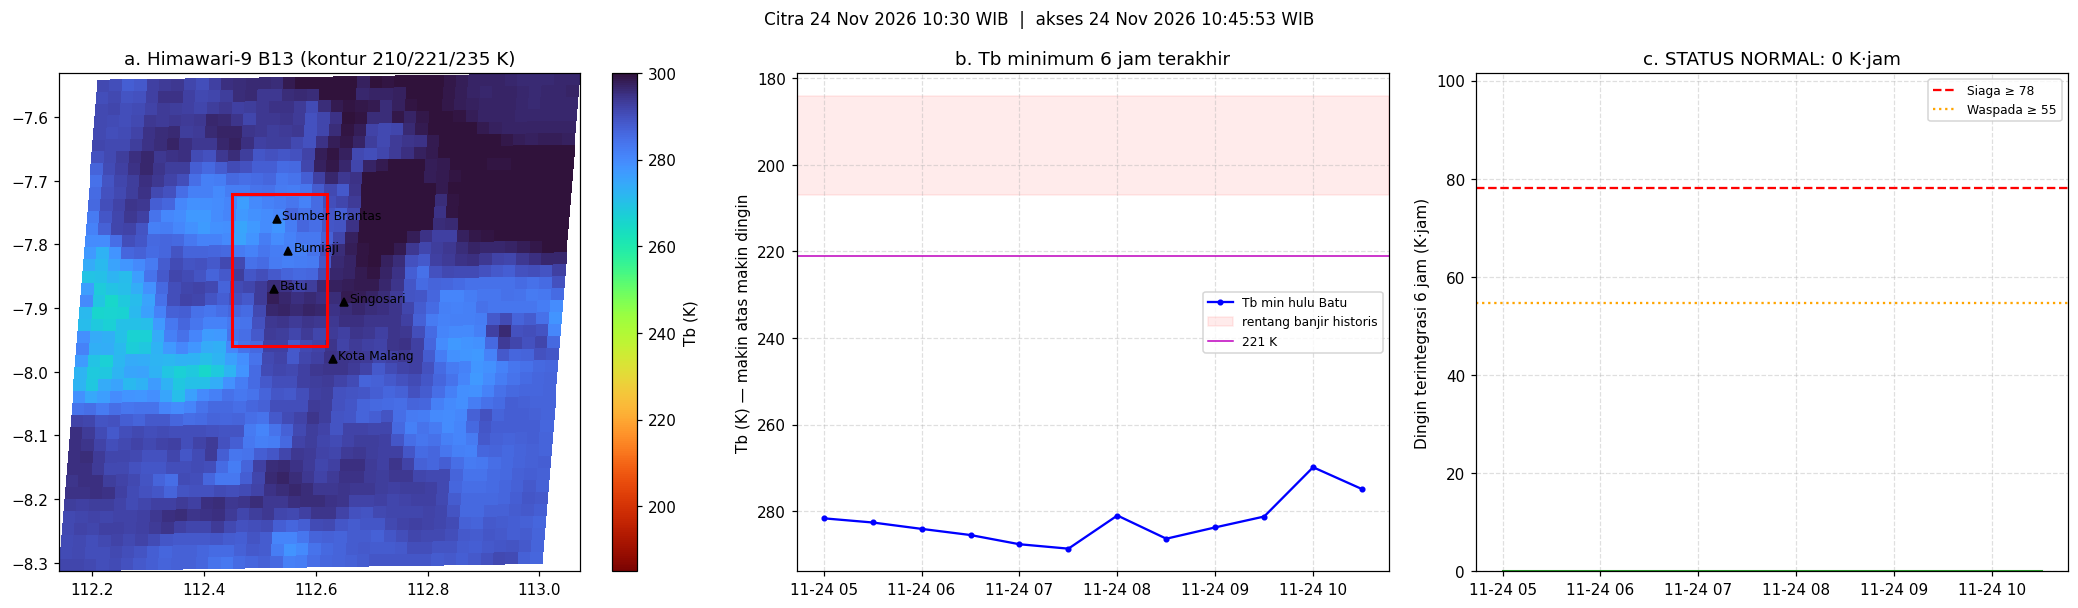
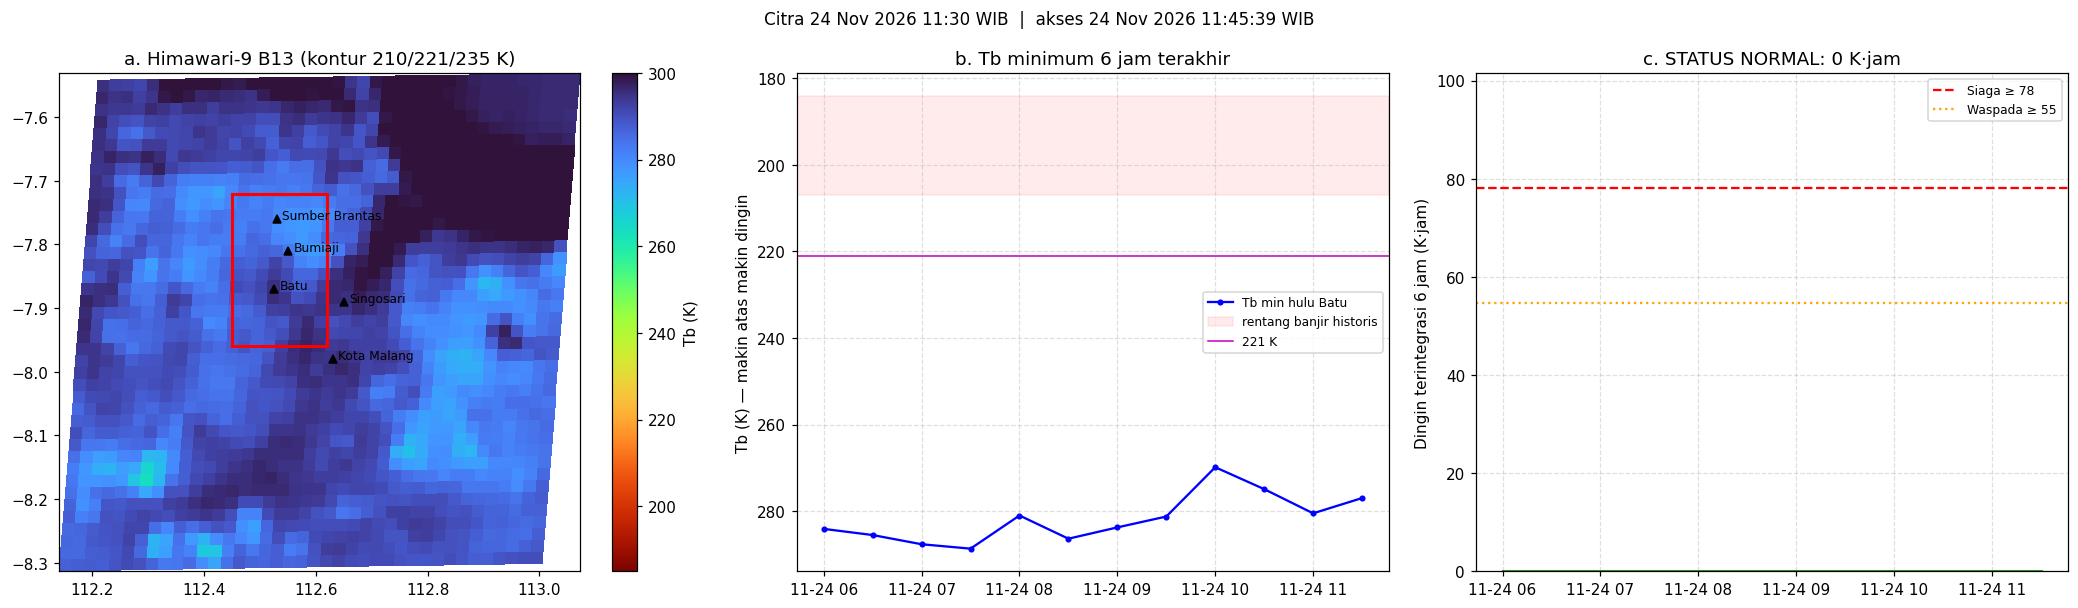
Update pantauan Himawari 2026-11-24 04:45 UTC

diff --git a/output/index.html b/output/index.html
@@ -16,20 +16,20 @@
  <span class="badge">NORMAL</span>
  <div>Dingin terintegrasi 6 jam<br><b>0 K·jam</b></div>
  <div>Ambang<br>Waspada ≥ 55 · Siaga ≥ 78</div>
- <div>Tb min hulu Batu<br><b>275 K</b> (2 °C)</div>
- <div>Citra<br><b>24 Nov 2026 10:30 WIB</b></div>
+ <div>Tb min hulu Batu<br><b>277 K</b> (4 °C)</div>
+ <div>Citra<br><b>24 Nov 2026 11:30 WIB</b></div>
 </div>
-<img src="LATEST_peta_tren.png?v=202611241045" alt="Peta dan tren awan Himawari-9 hulu Batu">
-<pre>Waktu citra : 24 Nov 2026 10:30 WIB
-Waktu run   : 24 Nov 2026 10:45:53 WIB
+<img src="LATEST_peta_tren.png?v=202611241145" alt="Peta dan tren awan Himawari-9 hulu Batu">
+<pre>Waktu citra : 24 Nov 2026 11:30 WIB
+Waktu run   : 24 Nov 2026 11:45:39 WIB
 
 STATUS: NORMAL  —  dingin terintegrasi 6 jam terakhir = 0 K·jam  (Waspada ≥ 55 | Siaga ≥ 78)
   satu jam lalu 0 K·jam → stabil
   ambang: SEL 9d (2026-11-14 08:00 WIB); kinerja pada data validasi POD 0.688, FAR 0.312, TSS 0.521
 
-Awan saat ini (hulu Batu): Tb min 274.9 K (2 °C) → tidak ada awan konvektif; tren 30 menit +5.1 K
+Awan saat ini (hulu Batu): Tb min 277.0 K (4 °C) → tidak ada awan konvektif; tren 30 menit -3.5 K
   luas tertutup awan &lt;235 / &lt;221 / &lt;210 K = 0 / 0 / 0 %
-  Batu 296 K | Bumiaji 282 K | Sumber Brantas 281 K | Singosari 299 K | Kota Malang 295 K
+  Batu 295 K | Bumiaji 283 K | Sumber Brantas 280 K | Singosari 295 K | Kota Malang 294 K
 
 Arti status: NORMAL = awan dingin belum bertahan lama (hari hujan biasa umumnya di sini);
   WASPADA = pantau ulang; SIAGA = setara pola awan saat 16 kejadian banjir historis 2020–2026.
@@ -37,7 +37,7 @@ Arti status: NORMAL = awan dingin belum bertahan lama (hari hujan biasa umumnya 
   tenggang beberapa jam untuk wilayah hilir (Kota Malang).
 Bukan peringatan dini resmi. Untuk keselamatan ikuti BMKG Jawa Timur &amp; BPBD Kota Batu.</pre>
 <h4>Riwayat 24 pengecekan terakhir</h4>
-<table><tr><th>Waktu citra (WIB)</th><th>Status</th><th>DI (K·jam)</th><th>Tb min (K)</th></tr><tr><td>2026-11-24 10:30</td><td>NORMAL</td><td>0</td><td>275</td></tr><tr><td>2026-11-24 09:30</td><td>NORMAL</td><td>0</td><td>281</td></tr><tr><td>2026-11-24 08:30</td><td>NORMAL</td><td>0</td><td>286</td></tr><tr><td>2026-11-24 07:30</td><td>NORMAL</td><td>0</td><td>289</td></tr><tr><td>2026-11-24 06:30</td><td>NORMAL</td><td>0</td><td>286</td></tr><tr><td>2026-11-24 05:30</td><td>NORMAL</td><td>0</td><td>283</td></tr><tr><td>2026-11-24 05:30</td><td>NORMAL</td><td>0</td><td>283</td></tr><tr><td>2026-11-24 04:30</td><td>NORMAL</td><td>0</td><td>281</td></tr><tr><td>2026-11-24 03:30</td><td>NORMAL</td><td>0</td><td>282</td></tr><tr><td>2026-11-24 02:30</td><td>NORMAL</td><td>0</td><td>282</td></tr><tr><td>2026-11-24 01:30</td><td>NORMAL</td><td>0</td><td>262</td></tr><tr><td>2026-11-24 00:30</td><td>NORMAL</td><td>0</td><td>231</td></tr><tr><td>2026-11-23 23:30</td><td>NORMAL</td><td>0</td><td>279</td></tr><tr><td>2026-11-23 22:30</td><td>NORMAL</td><td>0</td><td>252</td></tr><tr><td>2026-11-23 21:30</td><td>NORMAL</td><td>0</td><td>256</td></tr><tr><td>2026-11-23 20:30</td><td>NORMAL</td><td>0</td><td>257</td></tr><tr><td>2026-11-23 19:30</td><td>NORMAL</td><td>0</td><td>232</td></tr><tr><td>2026-11-23 18:30</td><td>NORMAL</td><td>0</td><td>229</td></tr><tr><td>2026-11-23 17:50</td><td>NORMAL</td><td>0</td><td>227</td></tr><tr><td>2026-11-23 17:30</td><td>NORMAL</td><td>0</td><td>229</td></tr><tr><td>2026-11-23 16:30</td><td>NORMAL</td><td>0</td><td>243</td></tr><tr><td>2026-11-23 15:30</td><td>NORMAL</td><td>0</td><td>263</td></tr><tr><td>2026-11-23 14:30</td><td>NORMAL</td><td>0</td><td>235</td></tr><tr><td>2026-11-23 13:30</td><td>NORMAL</td><td>0</td><td>232</td></tr></table>
+<table><tr><th>Waktu citra (WIB)</th><th>Status</th><th>DI (K·jam)</th><th>Tb min (K)</th></tr><tr><td>2026-11-24 11:30</td><td>NORMAL</td><td>0</td><td>277</td></tr><tr><td>2026-11-24 10:30</td><td>NORMAL</td><td>0</td><td>275</td></tr><tr><td>2026-11-24 09:30</td><td>NORMAL</td><td>0</td><td>281</td></tr><tr><td>2026-11-24 08:30</td><td>NORMAL</td><td>0</td><td>286</td></tr><tr><td>2026-11-24 07:30</td><td>NORMAL</td><td>0</td><td>289</td></tr><tr><td>2026-11-24 06:30</td><td>NORMAL</td><td>0</td><td>286</td></tr><tr><td>2026-11-24 05:30</td><td>NORMAL</td><td>0</td><td>283</td></tr><tr><td>2026-11-24 05:30</td><td>NORMAL</td><td>0</td><td>283</td></tr><tr><td>2026-11-24 04:30</td><td>NORMAL</td><td>0</td><td>281</td></tr><tr><td>2026-11-24 03:30</td><td>NORMAL</td><td>0</td><td>282</td></tr><tr><td>2026-11-24 02:30</td><td>NORMAL</td><td>0</td><td>282</td></tr><tr><td>2026-11-24 01:30</td><td>NORMAL</td><td>0</td><td>262</td></tr><tr><td>2026-11-24 00:30</td><td>NORMAL</td><td>0</td><td>231</td></tr><tr><td>2026-11-23 23:30</td><td>NORMAL</td><td>0</td><td>279</td></tr><tr><td>2026-11-23 22:30</td><td>NORMAL</td><td>0</td><td>252</td></tr><tr><td>2026-11-23 21:30</td><td>NORMAL</td><td>0</td><td>256</td></tr><tr><td>2026-11-23 20:30</td><td>NORMAL</td><td>0</td><td>257</td></tr><tr><td>2026-11-23 19:30</td><td>NORMAL</td><td>0</td><td>232</td></tr><tr><td>2026-11-23 18:30</td><td>NORMAL</td><td>0</td><td>229</td></tr><tr><td>2026-11-23 17:50</td><td>NORMAL</td><td>0</td><td>227</td></tr><tr><td>2026-11-23 17:30</td><td>NORMAL</td><td>0</td><td>229</td></tr><tr><td>2026-11-23 16:30</td><td>NORMAL</td><td>0</td><td>243</td></tr><tr><td>2026-11-23 15:30</td><td>NORMAL</td><td>0</td><td>263</td></tr><tr><td>2026-11-23 14:30</td><td>NORMAL</td><td>0</td><td>235</td></tr></table>
 <p><small>Diperbarui otomatis tiap jam. Indikator penelitian (Universitas Negeri Malang), bukan peringatan dini resmi —
 ikuti BMKG Jawa Timur &amp; BPBD Kota Batu.</small></p>
 </body></html>
